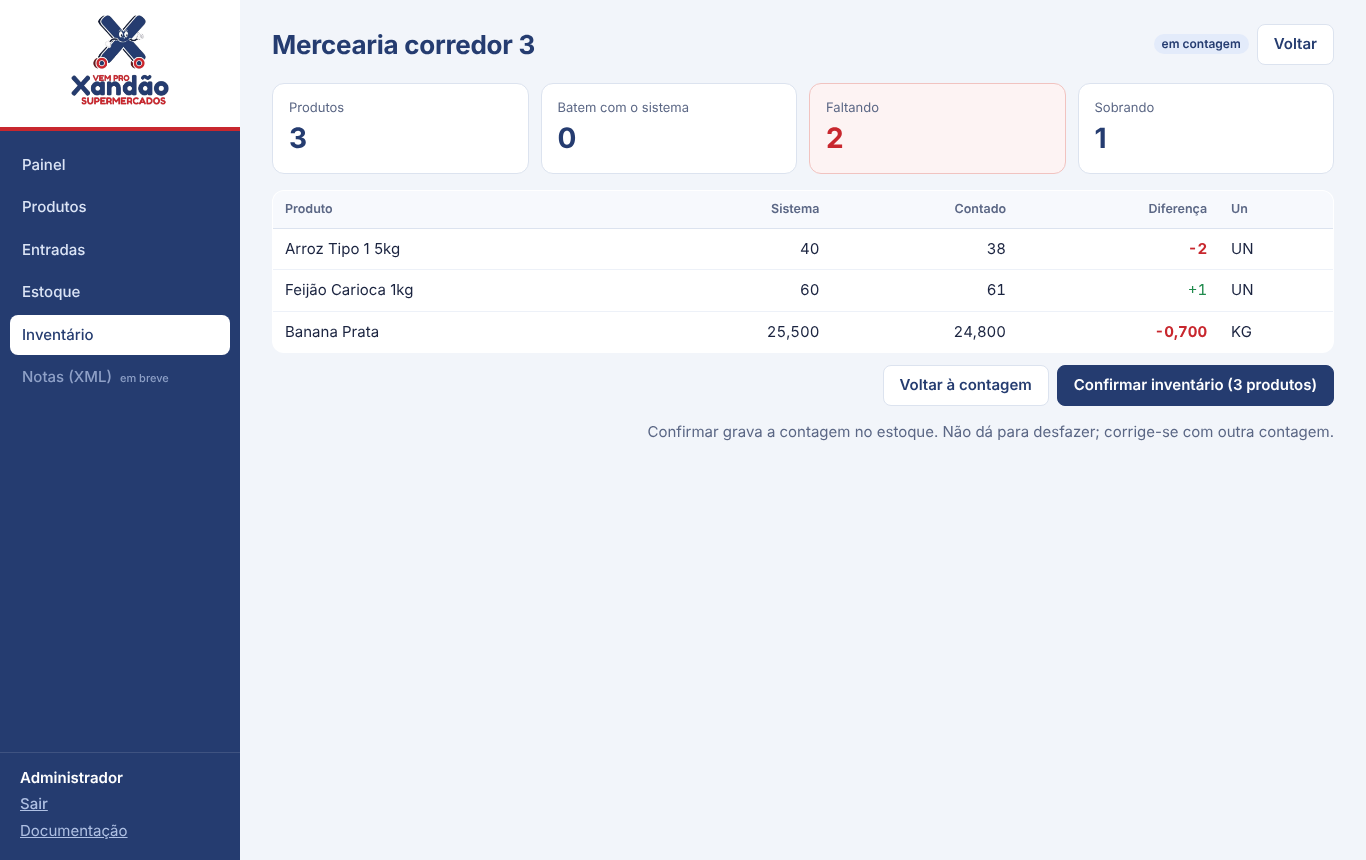
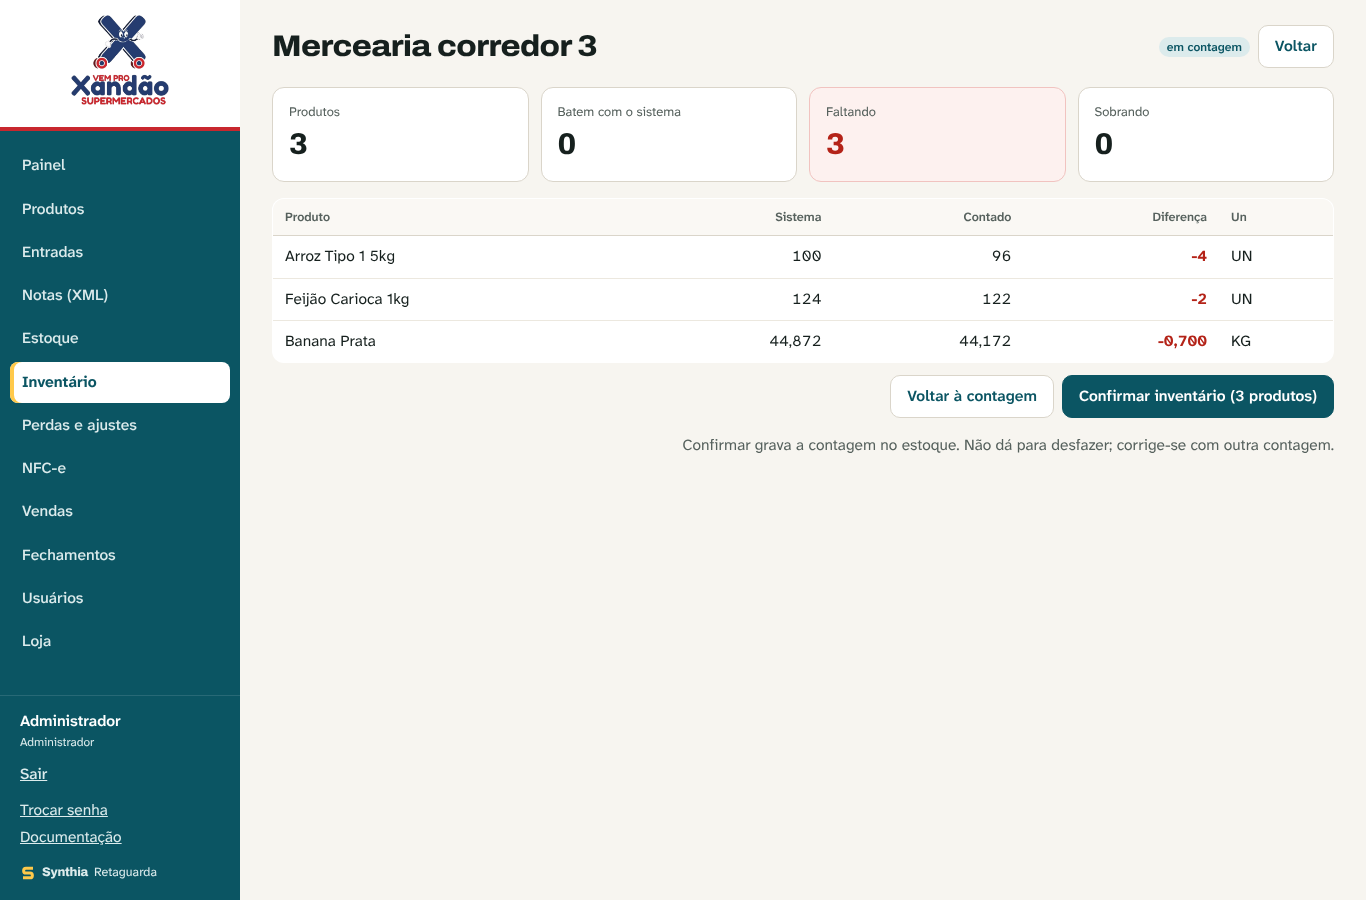
docs: retaguarda screenshots from a scripted store day, including the store page

diff --git a/tools/screenshots/retaguarda.js b/tools/screenshots/retaguarda.js
@@ -1,0 +1,268 @@
+// Capturas da retaguarda usadas na documentação (docs/img/retaguarda-*.png).
+// Monta um dia de loja de verdade pelo próprio sistema: cadastro da loja, importação de produtos, entrada da loja
+// antiga, vendas dos 4 caixas pelo sync (com devolução, cancelamento, contingência e rejeição de NFC-e), turnos,
+// inventário, nota XML, ajuste e usuários. Rode por tools/screenshots.sh, que sobe um servidor descartável.
+//
+//   node tools/screenshots/retaguarda.js http://localhost:5298 docs/img
+const { chromium } = require('playwright');
+const crypto = require('crypto');
+
+// UUIDv7 crescente, como os caixas geram (Uuid7): o servidor processa cada lote na ordem dos ids.
+let lastMs = 0, counter = 0;
+function uuid7() {
+  const ms = Date.now();
+  counter = ms === lastMs ? counter + 1 : 0;
+  lastMs = ms;
+  const b = crypto.randomBytes(16);
+  b.writeUIntBE(ms, 0, 6);
+  b[6] = 0x70 | ((counter >> 8) & 0x0f);
+  b[7] = counter & 0xff;
+  b[8] = 0x80 | (b[8] & 0x3f);
+  const h = b.toString('hex');
+  return `${h.slice(0, 8)}-${h.slice(8, 12)}-${h.slice(12, 16)}-${h.slice(16, 20)}-${h.slice(20)}`;
+}
+const fs = require('fs');
+const os = require('os');
+const path = require('path');
+
+const [base, outDir] = process.argv.slice(2);
+const root = path.resolve(__dirname, '..', '..');
+const tmp = fs.mkdtempSync(path.join(os.tmpdir(), 'synthia-prints-'));
+const TERMINAL_KEYS = { CX01: 'docs-cx01', CX02: 'docs-cx02', CX03: 'docs-cx03', CX04: 'docs-cx04' };
+
+const PRODUCTS_CSV = [
+  'codigo_barras;plu;descricao;unidade;preco;ncm',
+  '7891000100103;;Arroz Tipo 1 5kg;UN;28,99;10063021',
+  '7891000200209;;Feijão Carioca 1kg;UN;8,99;07133399',
+  '7891000400401;;Café Torrado 500g;UN;18,99;09012100',
+  '7891000300305;;Leite Integral 1L;UN;5,49;04012010',
+  '7891000500507;;Azeite Extravirgem 500ml;UN;34,90;15091000',
+  '7891000600603;;Refrigerante Cola 2L;UN;9,99;22021000',
+  ';1001;Banana Prata;KG;5,99;08039000',
+  ';1002;Pão Francês;KG;16,90;19059090',
+  '7891000700709;;Açúcar Refinado 1kg;UN;4,79;',
+  '7891000100103;;Arroz duplicado;UN;27,90;10063021',
+  ';;Sem código;UN;3,00;',
+].join('\n');
+
+const TRANSFER_CSV = [
+  'codigo;quantidade;custo',
+  '7891000400401;360;', '1002;180;', '7891000100103;420;', '7891000200209;480;', '1001;190;', '7891000600603;420;',
+  '7891000300305;480;', '7891000500507;300;', '7891000700709;360;', '9999999;5;',
+].join('\n');
+
+function write(name, content) {
+  const file = path.join(tmp, name);
+  fs.writeFileSync(file, content);
+  return file;
+}
+
+// Hoje no fuso da loja, para as vendas caírem no "Hoje" da retaguarda.
+const today = new Intl.DateTimeFormat('en-CA', { timeZone: 'America/Sao_Paulo' }).format(new Date());
+const at = (h, m) => `${today}T${String(h).padStart(2, '0')}:${String(m).padStart(2, '0')}:00-03:00`;
+
+(async () => {
+  const browser = await chromium.launch();
+  const page = await browser.newPage({ viewport: { width: 1366, height: 900 } });
+  page.on('pageerror', e => console.error('erro na página:', e.message));
+
+  const go = async p => { await page.goto(base + p); await page.waitForTimeout(1200); };
+  const shot = async (name, full = false) => {
+    await page.waitForTimeout(500);
+    await page.screenshot({ path: path.join(outDir, `${name}.png`), fullPage: full });
+    console.log('  ' + name);
+  };
+  const field = label => page.locator('label', { hasText: label }).locator('input, select').first();
+
+  // Login.
+  await go('/retaguarda/login');
+  await page.fill('input[autocomplete=username]', 'admin');
+  await page.fill('input[type=password]', 'synthia');
+  await page.click('button[type=submit]');
+  await page.waitForURL('**/retaguarda');
+
+  // Loja: o Xandão, cliente zero. Primeiro, para todas as telas saírem com a logo dele.
+  await go('/retaguarda/loja');
+  await field('Nome fantasia').fill('Xandão Supermercados');
+  await field('Razão social').fill('Xandão Comércio de Alimentos Ltda');
+  await field('CNPJ').fill('11.222.333/0001-81');
+  await field('Inscrição estadual').fill('123.456.789.110');
+  await field('Endereço').fill('Av. Brasil, 1000 - Centro - São Paulo/SP');
+  await field('Rodapé').fill('Vem pro Xandão! Obrigado pela preferência.');
+  await page.locator('input[type=color]').first().fill('#c8272e');
+  await page.locator('input[type=file]').setInputFiles(path.join(root, 'docs/img/logo-xandao.png'));
+  await page.waitForTimeout(1500);
+  await page.click('button.primary:has-text("Salvar")');
+  await page.waitForTimeout(2500);
+  await go('/retaguarda/loja');
+  await shot('retaguarda-13-loja');
+
+  // Produtos: planilha com dois erros e um aviso.
+  await go('/retaguarda/produtos/importar');
+  await page.locator('input[type=file]').setInputFiles(write('produtos.csv', PRODUCTS_CSV));
+  await page.waitForSelector('text=Importar 9 produto');
+  await shot('retaguarda-2-importar');
+  await page.click('button.primary:has-text("Importar")');
+  await page.waitForTimeout(1500);
+
+  // Entrada: transferência da loja antiga por planilha (uma linha com código desconhecido).
+  await go('/retaguarda/entradas/nova');
+  await field('Origem').selectOption('transfer');
+  await field('Documento').fill('Carga 1 - loja antiga');
+  await page.locator('input[type=file]').setInputFiles(write('transferencia.csv', TRANSFER_CSV));
+  await page.waitForTimeout(1200);
+  await shot('retaguarda-3-entrada');
+  await page.click('button.primary:has-text("Lançar entrada")');
+  await page.waitForTimeout(1500);
+
+  // Um dia de vendas nos 4 caixas, pelo mesmo sync que os caixas usam.
+  const products = await (await page.request.get(base + '/backoffice/products')).json();
+  const byName = n => products.find(p => p.name === n);
+  const sold = await simulateDay(page, products);
+  const received = { 'Arroz Tipo 1 5kg': 420, 'Feijão Carioca 1kg': 480, 'Banana Prata': 190 };
+  const expected = name => received[name] - (sold.get(byName(name).id) ?? 0);
+
+  await go('/retaguarda/estoque');
+  await shot('retaguarda-4-estoque');
+  await go('/retaguarda/estoque/' + byName('Arroz Tipo 1 5kg').id);
+  await shot('retaguarda-5-historico');
+
+  // Inventário de um setor, na revisão das diferenças.
+  await go('/retaguarda/inventarios');
+  await page.fill('input[placeholder^="Nome"]', 'Mercearia corredor 3');
+  await page.click('button:has-text("Começar contagem")');
+  await page.waitForURL('**/retaguarda/inventarios/*');
+  await page.waitForTimeout(1200);
+  const fmt = q => String(Math.round(q * 1000) / 1000).replace('.', ',');
+  for (const [code, qty] of [['7891000100103', fmt(expected('Arroz Tipo 1 5kg') - 2)],
+                             ['7891000200209', fmt(expected('Feijão Carioca 1kg') + 1)],
+                             ['1001', fmt(expected('Banana Prata') - 0.7)]]) {
+    await page.fill('input[placeholder="Código de barras ou PLU"]', code);
+    await page.fill('input[aria-label="Quantidade"]', qty);
+    await page.click('button:has-text("Somar")');
+    await page.waitForTimeout(500);
+  }
+  await page.click('button:has-text("Revisar diferenças")');
+  await page.waitForTimeout(1000);
+  await shot('retaguarda-6-inventario');
+
+  // Nota XML do fornecedor: dois itens pelo código de barras, um produto novo cadastrado pela nota, sacola ignorada.
+  await go('/retaguarda/notas');
+  await page.locator('input[type=file]').setInputFiles(path.join(root, 'tests/Synthia.Server.Tests/Fixtures/nfe-exemplo.xml'));
+  await page.waitForTimeout(1500);
+  await page.locator('button:has-text("cadastrar produto novo")').first().click();
+  await page.fill('input[placeholder="Preço de venda"]', '24,90');
+  await page.click('button:has-text("Cadastrar e vincular")');
+  await page.waitForTimeout(1000);
+  const ignore = page.locator('table tbody tr').last().locator('input[type=checkbox]');
+  if (!(await ignore.isChecked())) await ignore.check();
+  await page.waitForTimeout(500);
+  await shot('retaguarda-7-nota-xml');
+
+  // Perdas: quebra no recebimento.
+  await go('/retaguarda/ajustes');
+  await field('Motivo').selectOption('damage');
+  await field('Observação').fill('caixa amassada no recebimento');
+  for (const [code, qty] of [['7891000300305', '3'], ['7891000500507', '1']]) {
+    await page.fill('input[placeholder="Código de barras ou PLU"]', code);
+    await page.fill('input[aria-label="Quantidade"]', qty);
+    await page.click('button:has-text("Adicionar")');
+    await page.waitForTimeout(400);
+  }
+  await shot('retaguarda-8-ajustes');
+
+  // Usuários: gerente e estoquista.
+  await go('/retaguarda/usuarios');
+  for (const [login, name, role] of [['carla', 'Carla Mendes', 'gerente'], ['joao', 'João Pereira', 'estoquista']]) {
+    await field('Usuário').fill(login);
+    await field('Nome').fill(name);
+    await field('Papel').selectOption(role);
+    await field('Senha inicial').fill('trocar123');
+    await page.click('button:has-text("Criar usuário")');
+    await page.waitForTimeout(800);
+  }
+  await shot('retaguarda-9-usuarios');
+
+  await go('/retaguarda/nfce');
+  await shot('retaguarda-10-nfce');
+  await go('/retaguarda/relatorios');
+  await shot('retaguarda-11-vendas', true);
+  await go('/retaguarda/fechamentos');
+  await shot('retaguarda-12-fechamentos');
+  await go('/retaguarda');
+  await shot('retaguarda-1-painel', true);
+
+  await browser.close();
+  fs.rmSync(tmp, { recursive: true, force: true });
+})().catch(e => { console.error(e); process.exit(1); });
+
+/// Vendas de 8h às 20h com mais movimento no almoço e no fim da tarde; turnos com sangria e fechamento.
+async function simulateDay(page, products) {
+  const unitPrice = p => p.priceCents;
+  const send = async (terminal, events) => {
+    const res = await page.request.post(base + '/sync/events', {
+      headers: { 'X-Terminal-Id': terminal, 'X-Terminal-Key': TERMINAL_KEYS[terminal] },
+      data: { events },
+    });
+    if (!res.ok()) throw new Error(`sync ${terminal}: ${res.status()} ${await res.text()}`);
+  };
+  const ev = (terminal, type, streamId, seq, when, payload) =>
+    ({ eventId: uuid7(), streamId, streamSeq: seq, type, terminalId: terminal, occurredAt: when, catalogVersion: 1, payload });
+
+  let seed = 7;
+  const rand = () => (seed = (seed * 16807) % 2147483647) / 2147483647;
+  const pick = xs => xs[Math.floor(rand() * xs.length)];
+  const operators = { CX01: 'Maria', CX02: 'Ana', CX03: 'Rafael', CX04: 'Bruna' };
+  const sold = new Map();
+  const weights = [0, 0, 0, 0, 0, 0, 0, 0, 4, 6, 8, 10, 14, 12, 7, 6, 7, 10, 14, 12, 6, 0, 0, 0];
+
+  for (const terminal of Object.keys(operators)) {
+    const shiftId = crypto.randomUUID();
+    let seq = 1, cash = 0;
+    await send(terminal, [ev(terminal, 'ShiftOpened', shiftId, seq++, at(7, 50), { shiftId, operator: operators[terminal], openingCashCents: 10000 })]);
+
+    let n = 0;
+    for (let hour = 8; hour <= 20; hour++) {
+      for (let k = 0; k < Math.round(weights[hour] * (0.8 + rand() * 0.4)); k++) {
+        const saleId = crypto.randomUUID();
+        const items = Array.from({ length: 1 + Math.floor(rand() * 5) }, () => {
+          const p = pick(products);
+          const quantity = p.unit === 'KG' ? Math.round((0.3 + rand() * 1.5) * 1000) / 1000 : 1 + Math.floor(rand() * 3);
+          return { itemId: crypto.randomUUID(), productId: p.id, description: p.name, quantity, unitPriceCents: unitPrice(p),
+                   totalCents: Math.round(quantity * unitPrice(p)) };
+        });
+        const total = items.reduce((s, i) => s + i.totalCents, 0);
+        for (const i of items) sold.set(i.productId, (sold.get(i.productId) ?? 0) + i.quantity);
+        const method = pick(['cash', 'cash', 'debit', 'debit', 'credit', 'pix']);
+        const paid = method === 'cash' ? Math.ceil(total / 1000) * 1000 : total;
+        if (method === 'cash') cash += total;
+        n++;
+        const nfceStatus = terminal === 'CX03' && hour === 12 && k < 3 ? 'pending' : 'authorized';
+        const when = at(hour, Math.floor(rand() * 59));
+        const events = [ev(terminal, 'SaleCompleted', saleId, 1, when, {
+          saleId, shiftId, items, payments: [{ method, amountCents: paid, tefNsu: method === 'cash' ? null : String(100000 + n) }],
+          totalCents: total, changeCents: paid - total, nfceKey: `3526101122233300018165${terminal.slice(2)}0000${String(n).padStart(5, '0')}1`, nfceStatus,
+        })];
+        if (terminal === 'CX02' && n === 9) {
+          events.push(ev(terminal, 'SaleItemCancelled', saleId, 2, when, { saleId, itemId: items[0].itemId, reason: 'cliente desistiu', refundMethod: method }));
+          if (method === 'cash') cash -= items[0].totalCents;
+        }
+        if (terminal === 'CX04' && n === 15 && method === 'cash') cash -= total;
+        if (terminal === 'CX04' && n === 15) events.push(ev(terminal, 'SaleCancelled', saleId, 2, when, { saleId, reason: 'venda lançada errada' }));
+        if (terminal === 'CX01' && n === 20) events.push(ev(terminal, 'NfceRejected', saleId, 2, when, { saleId, nfceKey: events[0].payload.nfceKey, code: '778', reason: 'NCM inexistente' }));
+        await send(terminal, events);
+      }
+      if (hour === 13 && cash > 30000) {
+        await send(terminal, [ev(terminal, 'CashWithdrawal', shiftId, seq++, at(13, 30), { shiftId, amountCents: 20000, reason: 'cofre' })]);
+        cash -= 20000;
+      }
+    }
+
+    // CX01 e CX02 fecham o turno (um com falta de R$ 0,10); CX03 e CX04 seguem abertos.
+    if (terminal === 'CX01' || terminal === 'CX02') {
+      const declared = 10000 + cash - (terminal === 'CX01' ? 10 : 0);
+      await send(terminal, [ev(terminal, 'ShiftClosed', shiftId, seq++, at(20, 55), { shiftId, declaredCashCents: declared })]);
+    }
+  }
+  return sold;
+}
